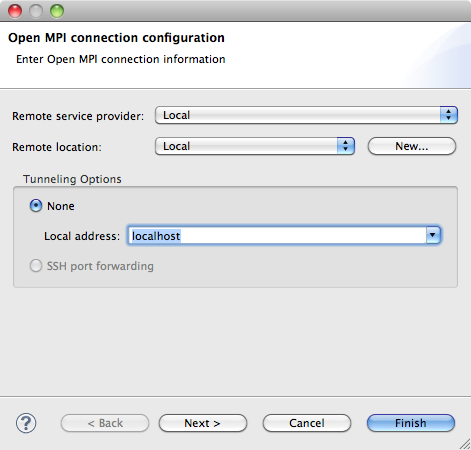
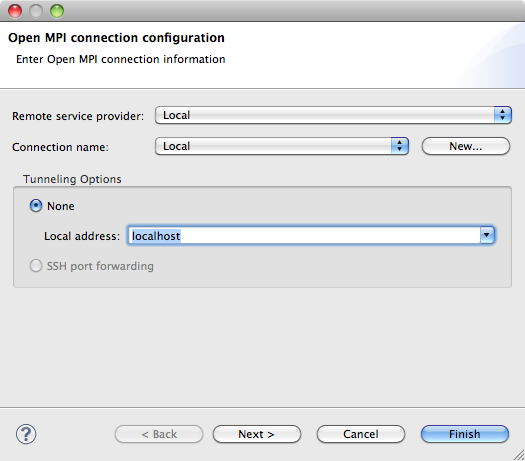
Updated

diff --git a/core/org.eclipse.ptp.doc.user/html/02resMgrSetup.html b/core/org.eclipse.ptp.doc.user/html/02resMgrSetup.html
@@ -61,8 +61,8 @@ Environment.</p><p><br></p>
 
 <h2 id="local">Step 2a: Configuring a local resource manager</h2>
 <p>
-In this example, we will show how to configure PTP to use a local resource manager, for example, where Eclipse is installed on the head node of a cluster. 
-This was the scenario that PTP 1.x handled.
+In this example, we will show how to configure PTP to use a local resource manager, for example, where Eclipse is installed on your desktop machine or
+the head node of a cluster.
 </p>
 <p>
 The <b>Open MPI connection configuration</b> dialog is used to configure how Eclipse will communicate with the Open MPI environment.
@@ -71,27 +71,27 @@ The <b>Open MPI connection configuration</b> dialog is used to configure how Ecl
 <ol>
 	<li>
 		<p>To configure the simple case of a local resource manager, select <b>Local</b> as the <b>Remote service provider</b>.
-		</p>
+		</p><p><br></p>
 		<p><img src="images/02-RM-OpenMPI-Connection-Local.png"></p>
 		<p><br></p>
 	</li>
 	
 	<li>
-		<p>For the local case, the <b>Proxy server location</b> will be automatically set to <b>Local</b>.
+		<p>For the local case, the <b>Connection name</b> will be automatically set to <b>Local</b>.
 		</p>
 		<p><br></p>
 	</li>
 
 	<li>
 		<p>
-		The <b>Multiplexing Options</b> allow communication to be tunneled over a single connection if necessary. 
-		For the local case, it is not required, and <b>None</b> should be selected.
+		The <b>Tunneling Options</b> allow communication to be tunneled over a single connection if necessary. 
+		For the local case, it is not required, and only <b>None</b> can be selected.
 		</p>
 		<p><br></p>
 	</li>
 
 	<li>
-		<p>The <b>Local address for proxy connection</b> should be set to the address of your local machine (its host name, IP address, or <code>localhost</code>).
+		<p>The <b>Local address for proxy connection</b> should be set to the local address of your local machine (<code>localhost</code>, or its host name or IP address).
 		</p>
 		<p><br></p>
 	</li>
@@ -106,8 +106,11 @@ controls a remote target system.
 
 <p>A remote resource manager allows PTP to control a remote target machine. To accomplish this, PTP uses the services of
 a <i>remote service provider</i>. Currently supported remote service providers include the <b>Remote Tools</b> package (a part
-of PTP) and the <b>Eclipse Remote Systems Explorer (RSE)</b> which is an optional package that can be installed at any time.</p> The
-only reason to use RSE rather than Remote Tools is if your remote system does not use the <code>ssh</code> protocol for remote connections,
+of PTP) and the <b>Eclipse Remote Systems Explorer (RSE)</b> which is an optional package that can be installed at any time. 
+<b>The preferred remote service provider is Remote Tools</b> which supports all PTP and Remote Development Tools (RDT) functionality.</p>
+
+RSE may be used if your remote system does not use the <code>ssh</code> 
+protocol for remote connections,
 or you wish to use the additional functionality that RSE provides. See the RSE documentation
 for more information. We will only consider Remote Tools here, but the steps for configuring RSE are similar.
 
@@ -123,7 +126,7 @@ for more information. We will only consider Remote Tools here, but the steps for
 	
 	<li>
 		<p>
-		At this point, you need to configure a <b>Proxy server location</b>.
+		At this point, you need to configure a <b>Connection name</b>.
 		This will differ depending on the remote service provider that you selected in the previous step. 
 		The following steps describe configuring a <b>Remote Tools</b> location.
 		</p>
@@ -151,14 +154,15 @@ for more information. We will only consider Remote Tools here, but the steps for
 	</ol>
 
 	<li>
-		<p>The <b>Multiplexing Options</b> allow communication to be tunneled over a single connection if supported by the remote service provider. 
-		To enable tunneling, select the <b>Use port forwarding</b> radio button.</p>
+		<p>The <b>Tunneling Options</b> allow communication to be tunneled over a single connection if supported by the remote service provider. 
+		To enable tunneling, select the <b>SSH port forwarding</b> radio button.</p>
 		<p><br></p>
 	</li>
 
 	<li>
 		<p>
-		If you don't wish to use port forwarding, select the <b>None</b> radio button and enter the address of your local machine (its host name, or IP address) in the <b>Local address for proxy connection</b> field. 
+		If you don't wish to use port forwarding, select the <b>None</b> radio button and enter the address of your local machine (its host name, or IP address) in 
+		the <b>Local address</b> field. You may need to reconfigure or disable the firewall on your local machine if this option is selection.
 		Note that if your site does not allow outbound connections from the remote machine to your local machine, then you <i>must</i> use port forwarding.</p>
 		<p><br></p>
 	</li>
@@ -167,7 +171,10 @@ for more information. We will only consider Remote Tools here, but the steps for
 </ol>
 
 <h2 id="spec">Step 3: Resource manager-specific configuration</h2>
-<p>The next page will show configuration information specific to a particular resource manager. 
+<p>The contents of the resource manager-specific configuration page will depend
+on the type of resource manager that was initially selected. In this section we will show how to configure an <b>Open MPI</b> resource manager.
+Please refer to the IBM PE, IBM LoadLeveler,
+PBS, or SLURM resource manager documentation for information on these systems.</p>
 In this case, the <b>Open MPI tool configuration</b> dialog is shown. 
 You will not normally need to change this information. Just leave the <b>Open MPI version</b> set to <b>Auto Detect</b>, 
 and default values will automatically loaded into the fields.</p>
